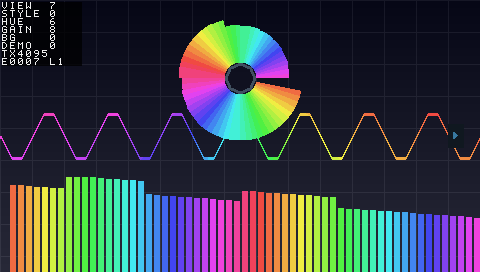
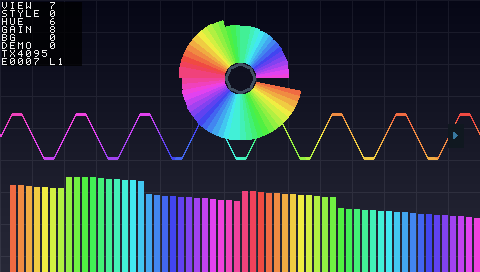
fix: 波形正值朝上（原来是负值朝上，和示波器相反）

diff --git a/docs/13-todo.md b/docs/13-todo.md
@@ -223,10 +223,13 @@ python3 scripts/uart_term.py -c '?' -c V02 -c '?'
 - [ ] **波形滤波 / 门限**（下一步，看需要）⏸
       · **FIR 平滑**（Music-Spectrum 那套的"波形经 FIR 滤波后触发"）✗ 让触发点更干净
       · `TH` 现在是固定值（满量程 1/64）✗ 可考虑自适应门限（需要一个幅度估计器）
-- [ ] **波形正负方向**（待确认）⏸
-      · 现在 `disp_mix` 里是 `wave[23] ? (CY - amp) : (CY + amp)`
-        → **负值画在上方**（和常规示波器"正值在上"相反）
-      · 改动只有一行 ✗ 但会影响 `tb_disp_top` 的参照（参照是同源生成 ✗ 会自动跟上）
+- [x] **波形正负方向翻正** ✅ **2026-10-04**
+      · 原来 `wave[23] ? (CY-amp) : (CY+amp)` → **负值画在上方**（和示波器相反）
+      · 改成 `wave[23] ? (CY+amp) : (CY-amp)` → **正值朝上** ✓
+      · 上下对称的波形看不出来 ✗ 但**非对称波形一眼就不对**（"先上后下"会变"先下后上"）
+      · **验证手法**：先只改 DUT 跑一遍 → `tb_disp_top` 报 **2528 处**不符
+        → 证明参照模型确实在验这个 ✗ 再同步参照 → PASS ✓（账本第 96 条）
+      · 顺手修掉 `disp_mix` 头部注释里的陈旧数字（"振幅 ±26" 实际是 22）
 - [ ] **`ui_style.v`** ⏸ 主要是重构（配色集中管理），视觉零变化
 - [x] **状态行改成可读标签** ✅ `VIEW 7 / STYLE 0 / HUE 6 / GAIN 8 / BG 0 / DEMO 0`
       + `TX4095` + `E0007 L1`，共 8 行。文本框缩到 80 px 宽（原来 160）
@@ -256,10 +259,13 @@ python3 scripts/uart_term.py -c '?' -c V02 -c '?'
 - [ ] **波形滤波 / 门限**（下一步，看需要）⏸
       · **FIR 平滑**（Music-Spectrum 那套的"波形经 FIR 滤波后触发"）✗ 让触发点更干净
       · `TH` 现在是固定值（满量程 1/64）✗ 可考虑自适应门限（需要一个幅度估计器）
-- [ ] **波形正负方向**（待确认）⏸
-      · 现在 `disp_mix` 里是 `wave[23] ? (CY - amp) : (CY + amp)`
-        → **负值画在上方**（和常规示波器"正值在上"相反）
-      · 改动只有一行 ✗ 但会影响 `tb_disp_top` 的参照（参照是同源生成 ✗ 会自动跟上）
+- [x] **波形正负方向翻正** ✅ **2026-10-04**
+      · 原来 `wave[23] ? (CY-amp) : (CY+amp)` → **负值画在上方**（和示波器相反）
+      · 改成 `wave[23] ? (CY+amp) : (CY-amp)` → **正值朝上** ✓
+      · 上下对称的波形看不出来 ✗ 但**非对称波形一眼就不对**（"先上后下"会变"先下后上"）
+      · **验证手法**：先只改 DUT 跑一遍 → `tb_disp_top` 报 **2528 处**不符
+        → 证明参照模型确实在验这个 ✗ 再同步参照 → PASS ✓（账本第 96 条）
+      · 顺手修掉 `disp_mix` 头部注释里的陈旧数字（"振幅 ±26" 实际是 22）
 - [ ] **`ui_style.v`** ⏸ 主要是重构（配色集中管理），视觉零变化
 
 > ⚠ **不是移植 LVGL**。LVGL 依赖动态内存 + CPU 顺序执行，RTL 里没有这些概念。

diff --git a/docs/12-display-design.md b/docs/12-display-design.md
@@ -327,6 +327,22 @@ w_y  = sample[23] ? (WAVE_CY - wamp) : (WAVE_CY + wamp)
 | **WNS / WHS** | **+1.492 ns / +0.036 ns** |
 | 比特流 | 约 985 KB |
 
+### 4.5b 波形的正负约定（正值朝上）
+
+采样是 **Q1.23 有符号**，屏幕 **y 越小越靠上**，所以映射是：
+
+```verilog
+wire [YW-1:0] w_y = wave[23] ? (CY_L + wamp_y) : (CY_L - wamp_y);
+//                  ↑ 负值 -> y 变大（往下）  ↑ 正值 -> y 变小（往上）
+```
+
+> ⚠ 最早的版本把这两个写反了（**负值画在上方**），和常规示波器相反。
+> **上下对称的波形看不出来**（正弦、三角波都看不出来），
+> 但**非对称波形一眼就不对** —— 比如"先上后下"的包络会变成"先下后上"。
+
+方向对不对**不能靠读代码判断**，`tb_disp_top` 的参照模型里有一份镜像实现，
+改 DUT 不同步参照就会立刻报 2528 处不符 —— 这就是它的价值。
+
 ### 4.6 `wave_buf` v2 —— 触发采集（2026-10-04 重写）
 
 #### 为什么改
